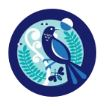
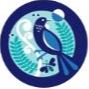
modified profile photo of cards

diff --git a/src/components/Card/Card.css b/src/components/Card/Card.css
@@ -19,9 +19,10 @@
 }
 
 .imageHolder {
-	background: url("./profile.png") center;
+	background: url("./profile.JPG") center;
 	background-size: cover;
 	float: left;
+	border-radius: 50%;
 }
 
 .card_content {
